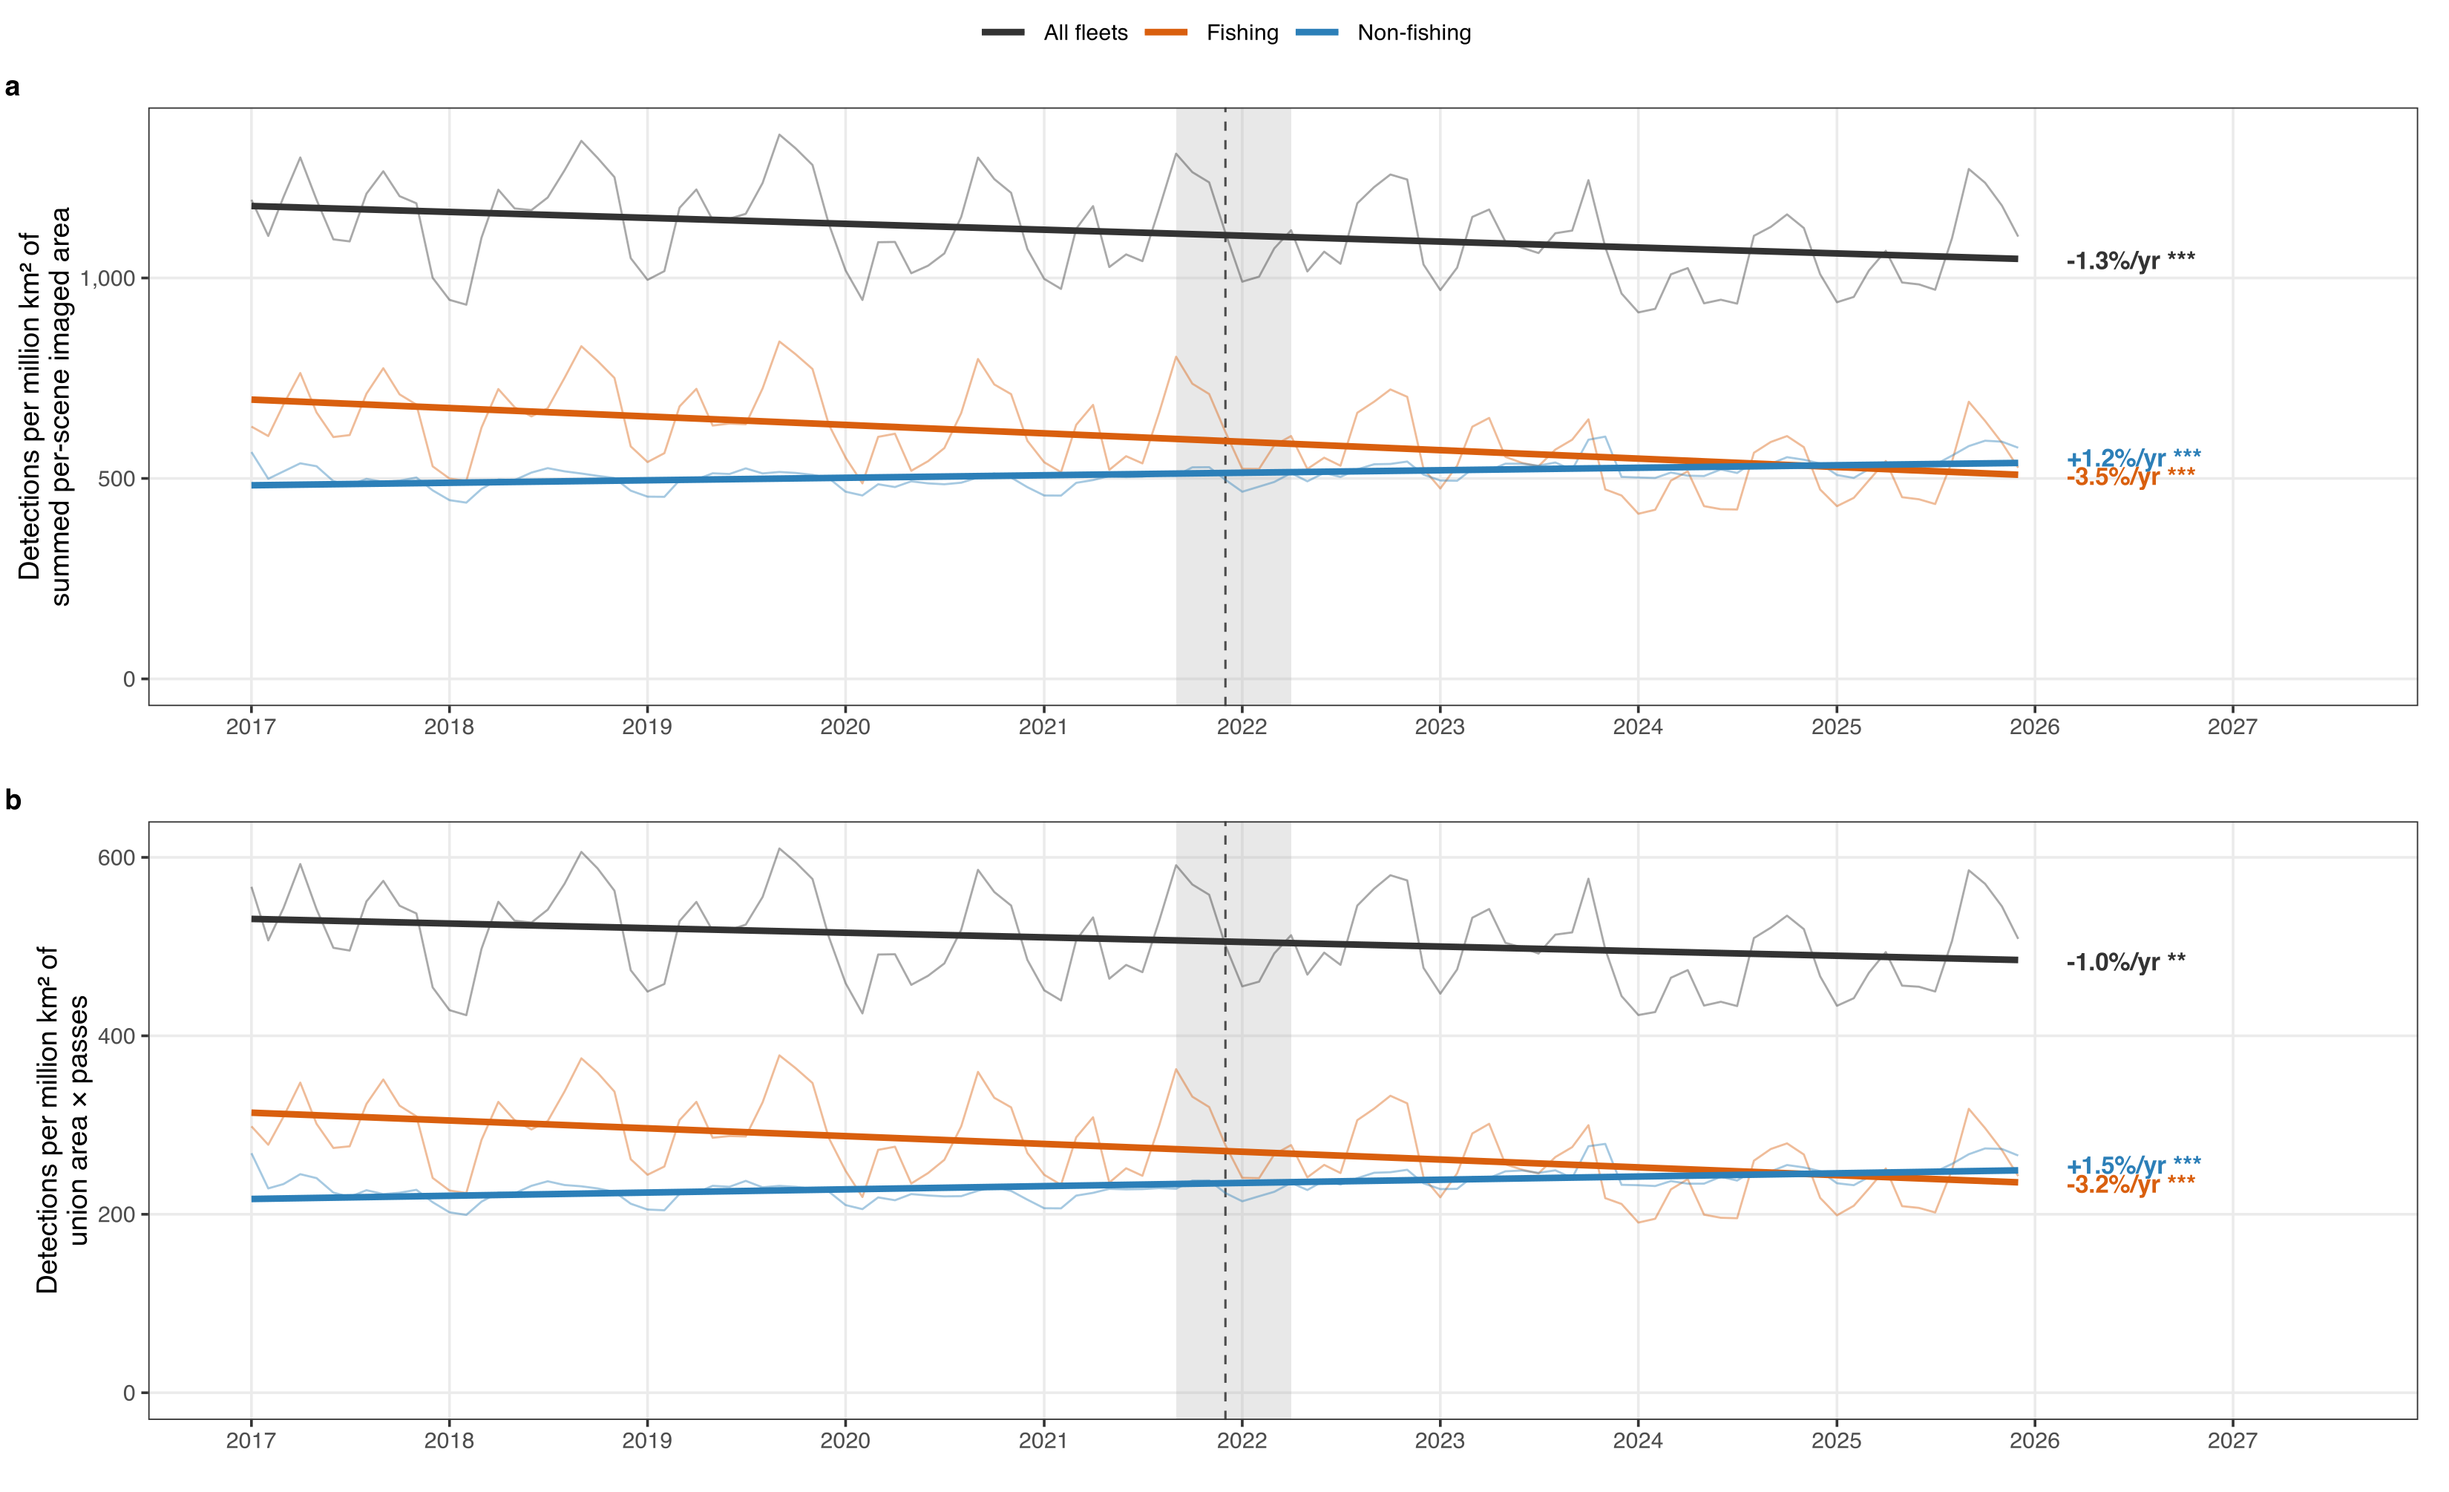
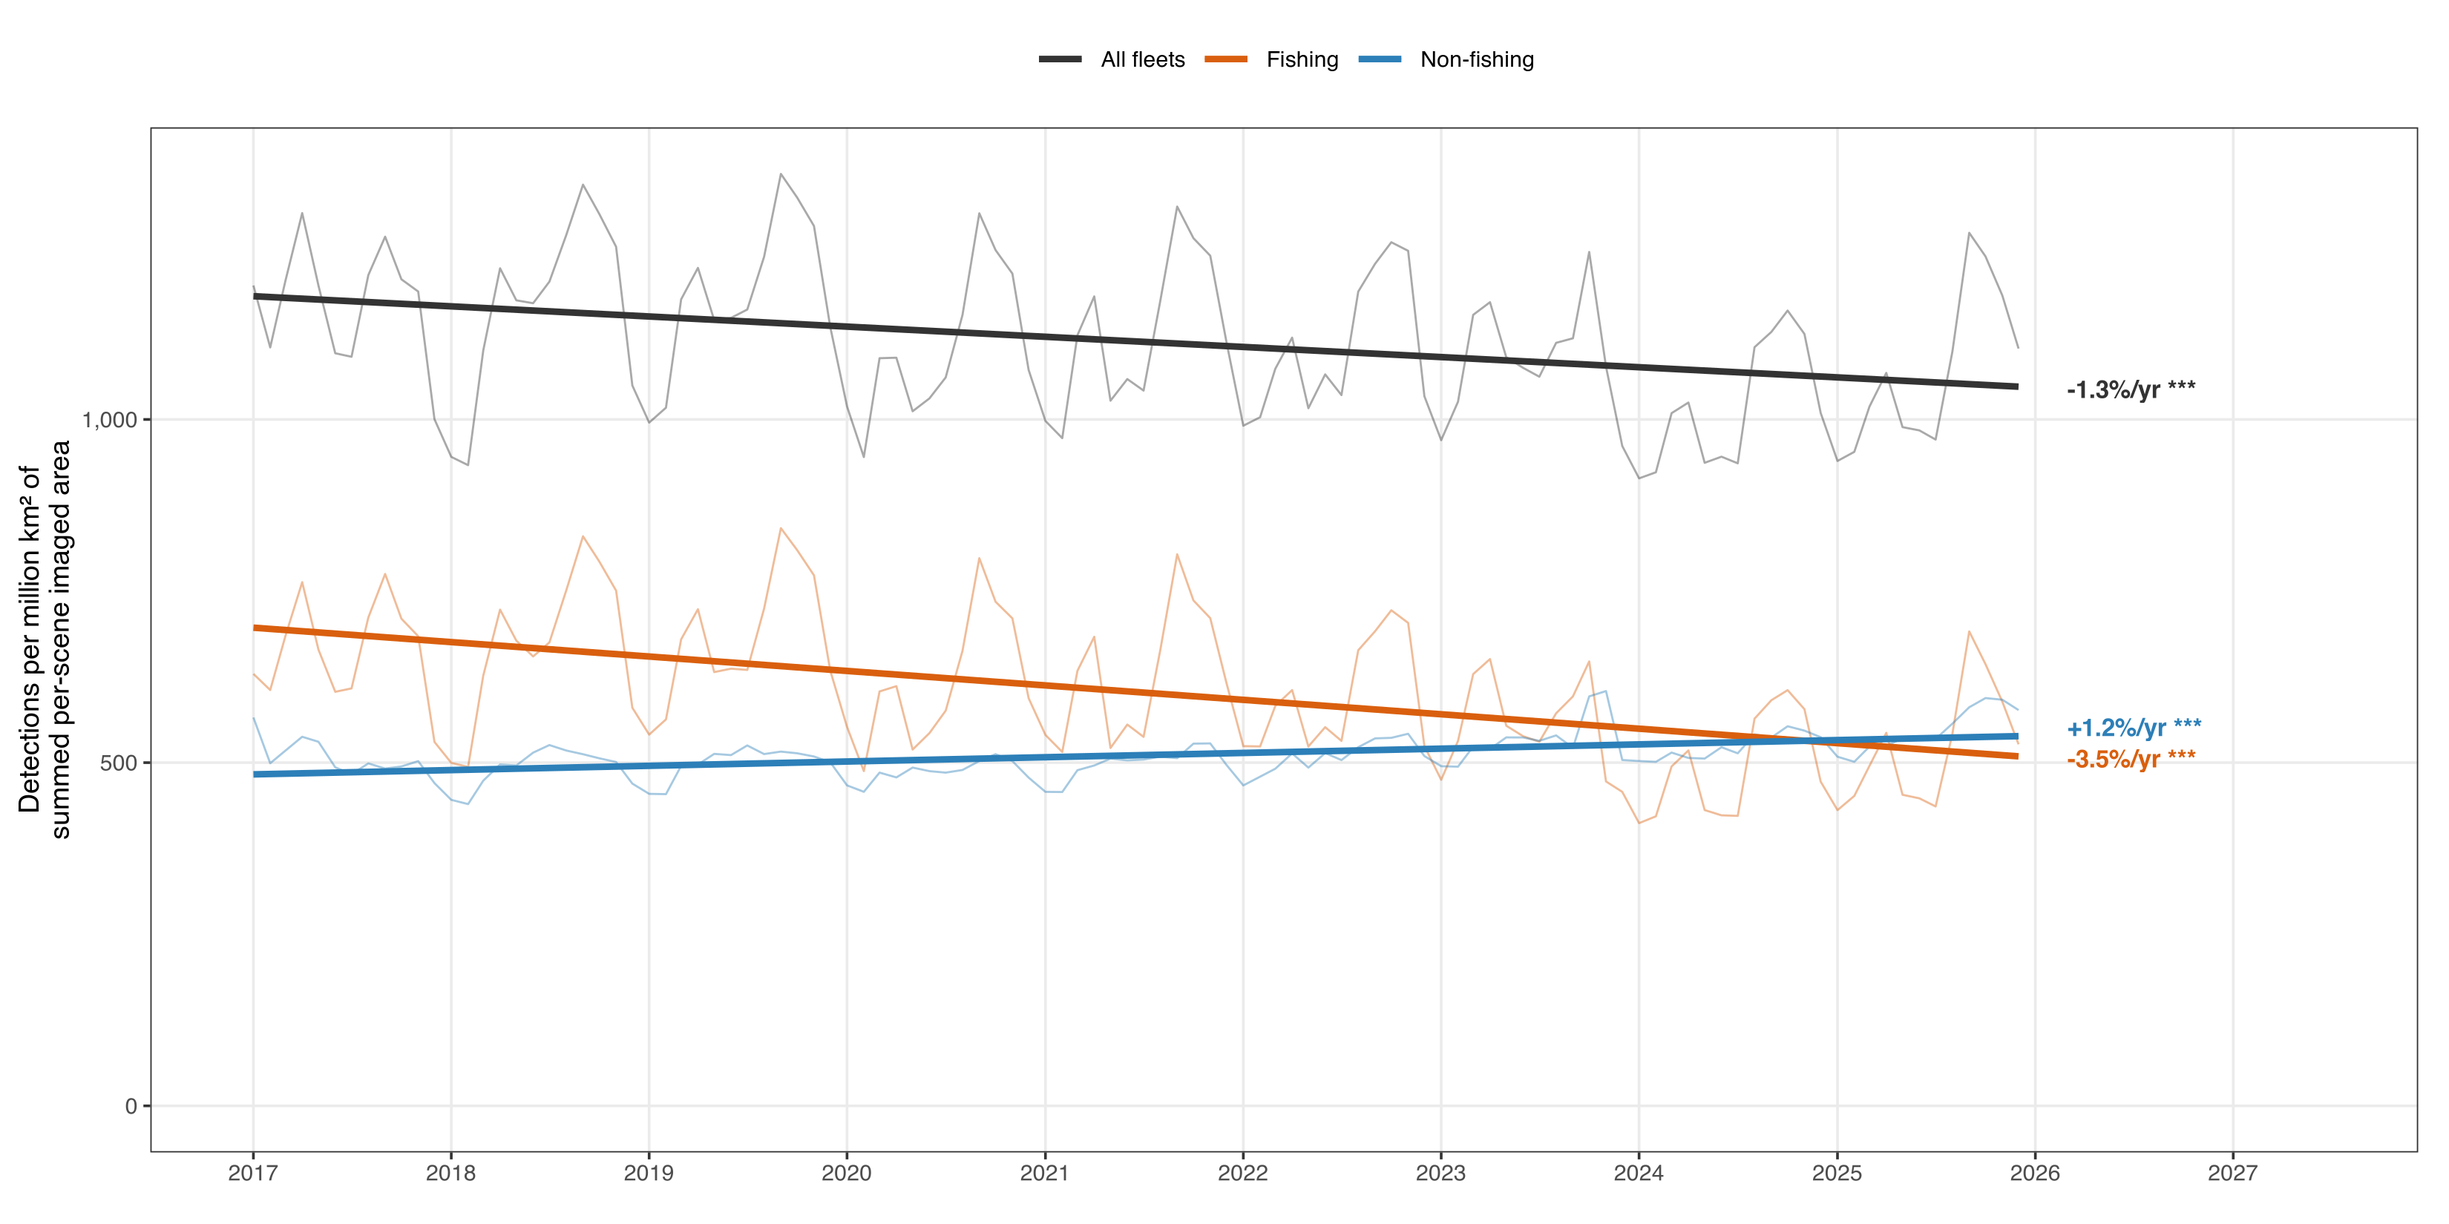
Correct S1 detection density growth rate from 17% to 16% and simplify figure methodologies

diff --git a/main.tex b/main.tex
@@ -1116,20 +1116,20 @@ The trend gap is different in kind. Growth in our AIS series can reflect expandi
 \begin{figure}[H]
     \centering
     \includegraphics[width=\columnwidth]{figures/figS-density-denominators-and-bins-1.png}
-    \caption{S1 detection density, 2017--2025, under two independent measures of S1 sampling effort. Thin lines are monthly values; thick lines are ordinary least squares fits of log density on time, labeled with the fitted trend in percent change per year. (a) Detections per million km² of per-scene imaged area summed across scenes — the effort measure used by our emissions models, with scene footprints deduplicated before summing. (b) Detections per million km² of union footprint area × number of passes. Union area and pass counts do not depend on how per-scene polygons are drawn, so this measure is independent of the footprint records; it overstates effort by a stable factor (the per-pass coverage fraction, about 0.46 in every year), making its level an index rather than a physical density while leaving its trends unaffected. The two panels are built from different fields and agree, which is the cross-check the pair provides. Dashed line, loss of Sentinel-1B in December 2021; grey band, the ±3 months around that loss excluded from era-split fits elsewhere.}
+    \caption{S1 detection density, 2017--2025, expressed per unit of S1 sampling effort: detections per million km² of per-scene imaged area summed across scenes, in detections per 10\textsuperscript{6} km² $\times$ pass. This is the same measure of S1 sampling effort by which our emissions models normalize their detection features, with scene footprints deduplicated before summing. Series are the fishing and non-fishing fleets and their sum. Thin lines are monthly values; thick lines are ordinary least squares fits of log density on time over the full period, labeled at the right edge with the fitted trend in percent change per year and its significance from the slope's two-sided $t$ test (*** $p<0.001$, ** $p<0.01$, * $p<0.05$, ns otherwise).}
     \label{fig:figS-density-denominators-and-bins}
 \end{figure}
 
 \begin{figure}[H]
     \centering
     \includegraphics[width=\columnwidth]{figures/figS-density-by-match-status-1.png}
-    \caption{S1 detection density by length bin, split into total, AIS-matched and unmatched detections, for fishing and non-fishing fleets. Density is expressed per unit of union footprint area × number of passes, as in panel b of Fig. \ref{fig:figS-density-denominators-and-bins}, so that the three series share a denominator and are additive.}
+    \caption{S1 detection density by length bin, split into total, AIS-matched and unmatched detections, for fishing and non-fishing fleets. Density is expressed per unit of S1 sampling effort on the same measure used in Fig. \ref{fig:figS-density-denominators-and-bins} and by our emissions models --- per-scene imaged area summed across scenes --- so that the three series share a denominator and are additive. Axes are log scaled. Thin lines are monthly values; thick lines are ordinary least squares fits of log density on time over the full period, labeled with the fitted trend in percent change per year and its significance from the slope's two-sided $t$ test (*** $p<0.001$, ** $p<0.01$, * $p<0.05$, ns otherwise).}
     \label{fig:figS-density-by-match-status}
 \end{figure}
 
 The magnitude gap rests on firm ground: each of these mechanisms adds emissions the top-down inventories cannot account for, and our own detection limits can only mean we understate the total further. However, for the trend, whether the increase in activity explains it, depends on whether the increase reflects real activity rather than the limits of what our fused approach can observe.
 
-Reallocation between our components requires that a vessel beginning to broadcast was already represented in the S1-unmatched estimate, and that holds only where S1 detects it. Vessels too small or too close to shore to be reliably detected, or operating outside the imaged footprint—which accounts for a fifth of our AIS emissions—contribute nothing to that component and might enter the fused total for the first time when they begin broadcasting. Because AIS carriage and reception expanded over the study period, the unobserved fraction was larger at the start of the series than at the end, so part of the measured growth in the fused total is that gap closing rather than activity rising. Figure \ref{fig:figS-density-by-match-status} (panel b and C) shows that this might be the case. Among non-fishing vessels under 25 m, matched detections (i.e., AIS-broadcasting) per unit of observing effort rise at 17\% per year while unmatched detections stay flat, so the growth there is added to the fused total rather than transferred within it. That addition could, in principle, reflect new vessels entering service. However, a 150\% increase in passenger vessels under 25 m over eight years in our AIS record (Fig. \ref{fig:figS-passenger-size-panels}) is difficult to reconcile with the idea that new construction of small craft could plausibly account for it. The more likely interpretation is that most of these vessels were already at sea but unobserved by S1, and became visible as AIS carriage and reception expanded, representing activity newly entering our record rather than newly occurring. A fused trend closely tracking the AIS-only trend is consistent with this. That the fused slope is slightly shallower indicates some genuine reallocation from the S1-unmatched component, but the similarity between the two implies that some of the measured growth enters directly through AIS rather than being transferred within the fused total.
+Reallocation between our components requires that a vessel beginning to broadcast was already represented in the S1-unmatched estimate, and that holds only where S1 detects it. Vessels too small or too close to shore to be reliably detected, or operating outside the imaged footprint—which accounts for a fifth of our AIS emissions—contribute nothing to that component and might enter the fused total for the first time when they begin broadcasting. Because AIS carriage and reception expanded over the study period, the unobserved fraction was larger at the start of the series than at the end, so part of the measured growth in the fused total is that gap closing rather than activity rising. Figure \ref{fig:figS-density-by-match-status} (panels b and c) shows that this might be the case. Among non-fishing vessels under 25 m, matched detections (i.e., AIS-broadcasting) per unit of observing effort rise at 16\% per year while unmatched detections stay flat, so the growth there is added to the fused total rather than transferred within it. That addition could, in principle, reflect new vessels entering service. However, a 150\% increase in passenger vessels under 25 m over eight years in our AIS record (Fig. \ref{fig:figS-passenger-size-panels}) is difficult to reconcile with the idea that new construction of small craft could plausibly account for it. The more likely interpretation is that most of these vessels were already at sea but unobserved by S1, and became visible as AIS carriage and reception expanded, representing activity newly entering our record rather than newly occurring. A fused trend closely tracking the AIS-only trend is consistent with this. That the fused slope is slightly shallower indicates some genuine reallocation from the S1-unmatched component, but the similarity between the two implies that some of the measured growth enters directly through AIS rather than being transferred within the fused total.
 
 Our fused trend is therefore likely inflated by the expansion of our own observation capacity, and is better read as an upper estimate of the underlying growth than as a measurement of it. This does not, however, imply that the flat trends of the other inventories are correct either. The reconciliation comes from the part of the fleet our approach captures without ambiguity. Among non-fishing vessels of 150 m and above, where AIS carriage is the highest and already settled at the start of our series (Fig. \ref{fig:figS-ais-carriage-saturation-by-size}), AIS-based emissions rose 29\% between 2017 and 2025, compared with 44\% for our full AIS total and 35\% for our fused total, respectively (Fig. \ref{fig:figS-registry-split-comparison}). S1 emissions are not disaggregated by vessel size, so we cannot provide the fused growth for this segment separately. The growth we report is therefore lower than our headline figure once observational expansion is set aside, but it is nowhere near the stability these inventories describe.
 

diff --git a/inventories_comparison.md b/inventories_comparison.md
@@ -63,7 +63,7 @@ The trend gap is different in kind. Growth in our AIS series can reflect expandi
 
 The magnitude gap rests on firm ground: each of these mechanisms adds emissions the top-down inventories cannot account for, and our own detection limits can only mean we understate the total further. However, for the trend, whether the increase in activity explains it depends on whether the increase reflects real activity rather than the limits of what our fused approach can observe.
 
-Reallocation between our components requires that a vessel beginning to broadcast was already represented in the S1-unmatched estimate, and that holds only where Sentinel-1 detects it. Vessels too small or too close to shore to be reliably detected, or operating outside the imaged footprint—which accounts for a fifth of our AIS emissions—contribute nothing to that component and might enter the fused total for the first time when they begin broadcasting. Because AIS carriage and reception expanded over the study period, the unobserved fraction was larger at the start of the series than at the end, so part of the measured growth in the fused total is that gap closing rather than activity rising. Figure [figS-density-by-match-status-1.png](figures/figS-density-by-match-status-1.png) (panel B and C) shows that this might be the case. Among non-fishing vessels under 25 m, matched detections (i.e., AIS-broadcasting) per unit of observing effort rise at 17% per year while unmatched detections stay flat, so the growth there is added to the fused total rather than transferred within it. That addition could, in principle, reflect new vessels entering service. However, a 150% increase in passenger vessels under 25 m over eight years in our AIS record ([figS-passenger-size-panels-1.png](figures/figS-passenger-size-panels-1.png)) is difficult to reconcile with the idea that new construction of small craft could plausibly account for it. The more likely interpretation is that most of these vessels were already at sea but unobserved by S1, and became visible as AIS carriage and reception expanded, representing activity newly entering our record rather than newly occurring. A fused trend closely tracking the AIS-only trend is consistent with this. That the fused slope is slightly shallower indicates some genuine reallocation from the S1-unmatched component, but the similarity between the two implies that some of the measured growth enters directly through AIS rather than being transferred within the fused total.
+Reallocation between our components requires that a vessel beginning to broadcast was already represented in the S1-unmatched estimate, and that holds only where Sentinel-1 detects it. Vessels too small or too close to shore to be reliably detected, or operating outside the imaged footprint—which accounts for a fifth of our AIS emissions—contribute nothing to that component and might enter the fused total for the first time when they begin broadcasting. Because AIS carriage and reception expanded over the study period, the unobserved fraction was larger at the start of the series than at the end, so part of the measured growth in the fused total is that gap closing rather than activity rising. Figure [figS-density-by-match-status-1.png](figures/figS-density-by-match-status-1.png) (panel B and C) shows that this might be the case. Among non-fishing vessels under 25 m, matched detections (i.e., AIS-broadcasting) per unit of observing effort rise at 16% per year while unmatched detections stay flat, so the growth there is added to the fused total rather than transferred within it. That addition could, in principle, reflect new vessels entering service. However, a 150% increase in passenger vessels under 25 m over eight years in our AIS record ([figS-passenger-size-panels-1.png](figures/figS-passenger-size-panels-1.png)) is difficult to reconcile with the idea that new construction of small craft could plausibly account for it. The more likely interpretation is that most of these vessels were already at sea but unobserved by S1, and became visible as AIS carriage and reception expanded, representing activity newly entering our record rather than newly occurring. A fused trend closely tracking the AIS-only trend is consistent with this. That the fused slope is slightly shallower indicates some genuine reallocation from the S1-unmatched component, but the similarity between the two implies that some of the measured growth enters directly through AIS rather than being transferred within the fused total.
 
 Our fused trend is therefore likely inflated by the expansion of our own observation capacity, and is better read as an upper estimate of the underlying growth than as a measurement of it. This does not, however, imply that the flat trends of the other inventories are correct either. The reconciliation comes from the part of the fleet our approach captures without ambiguity. Among non-fishing vessels of 150 m and above, where AIS carriage is the highest and already settled at the start of our series ([figS-ais-carriage-saturation-by-size-1.png](figures/figS-ais-carriage-saturation-by-size-1.png)), AIS-based emissions rose 29% between 2017 and 2025, compared with 44% for our full AIS total and 38% for our fused total, respectively ([figS-registry-split-comparison-1.png](figures/figS-registry-split-comparison-1.png)). S1 emissions are not disaggregated by vessel size, so we cannot provide the fused growth for this segment separately. The growth we report is therefore lower than our headline figure once observational expansion is set aside, but it is nowhere near the stability these inventories describe.
 
